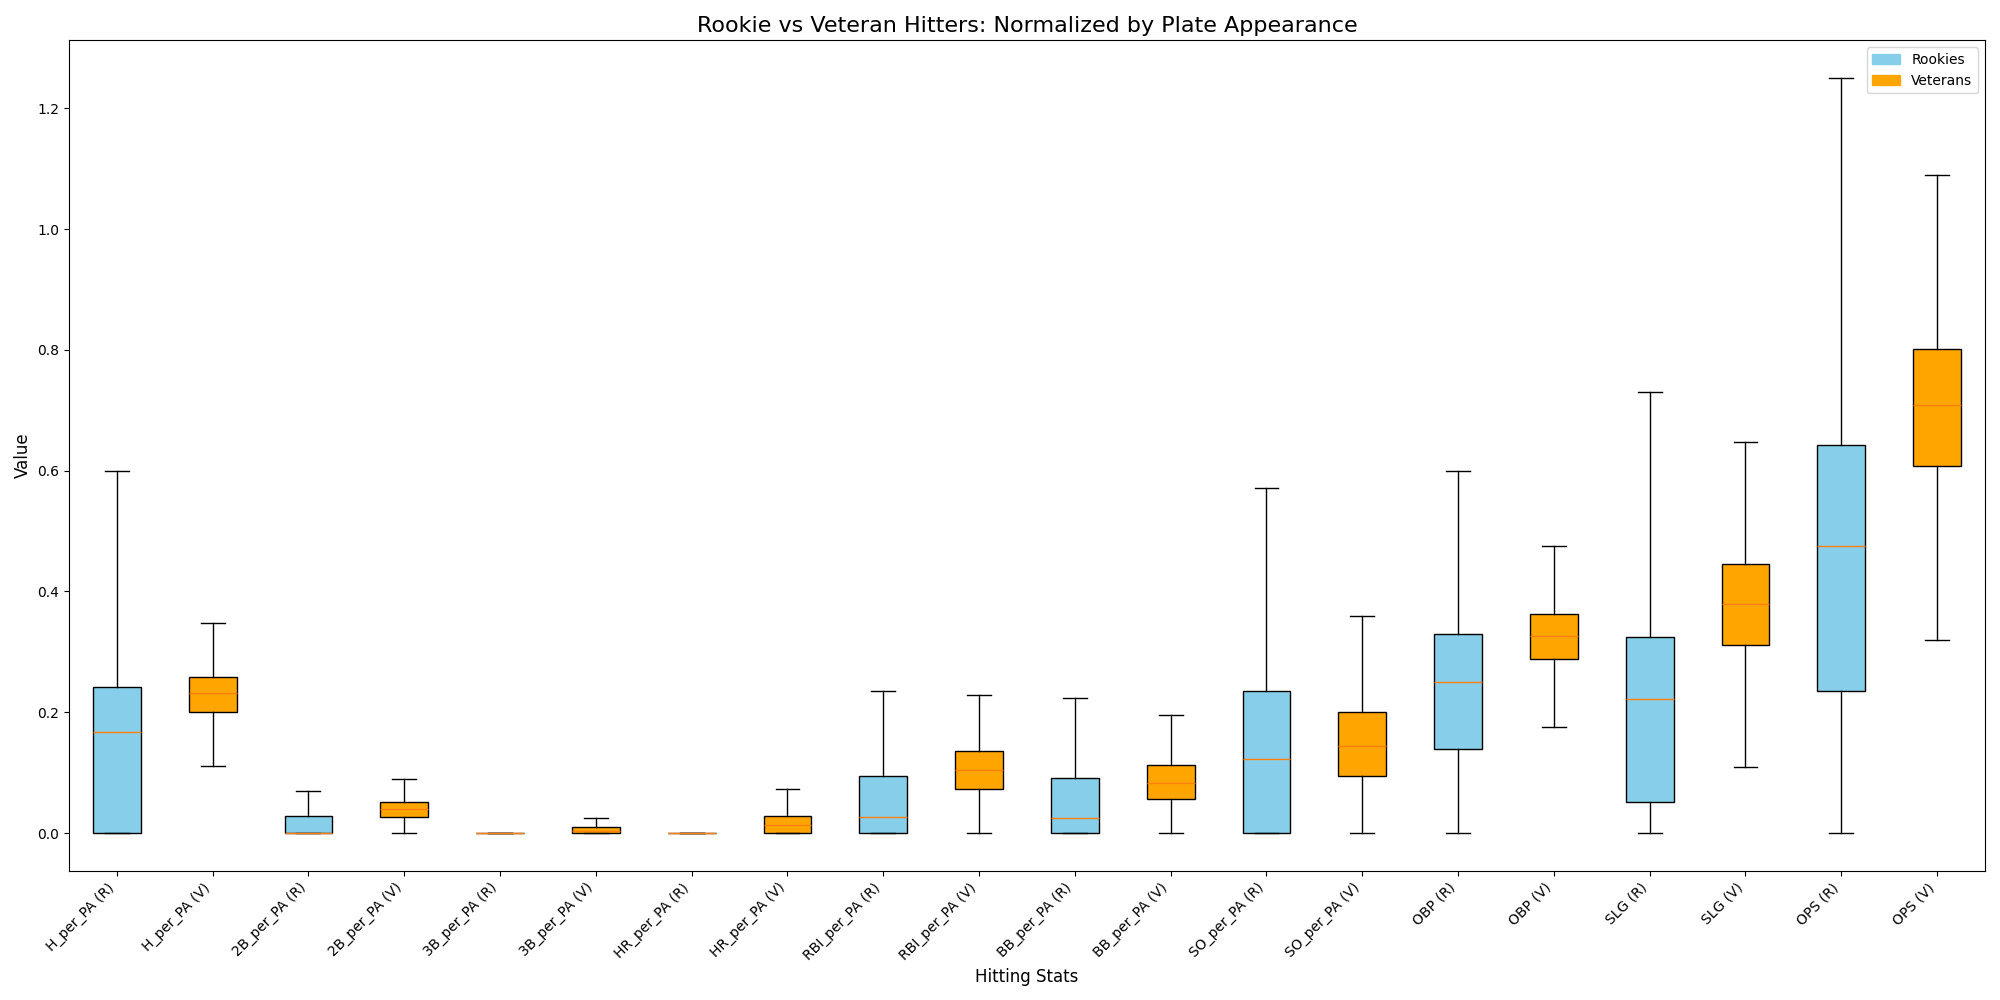
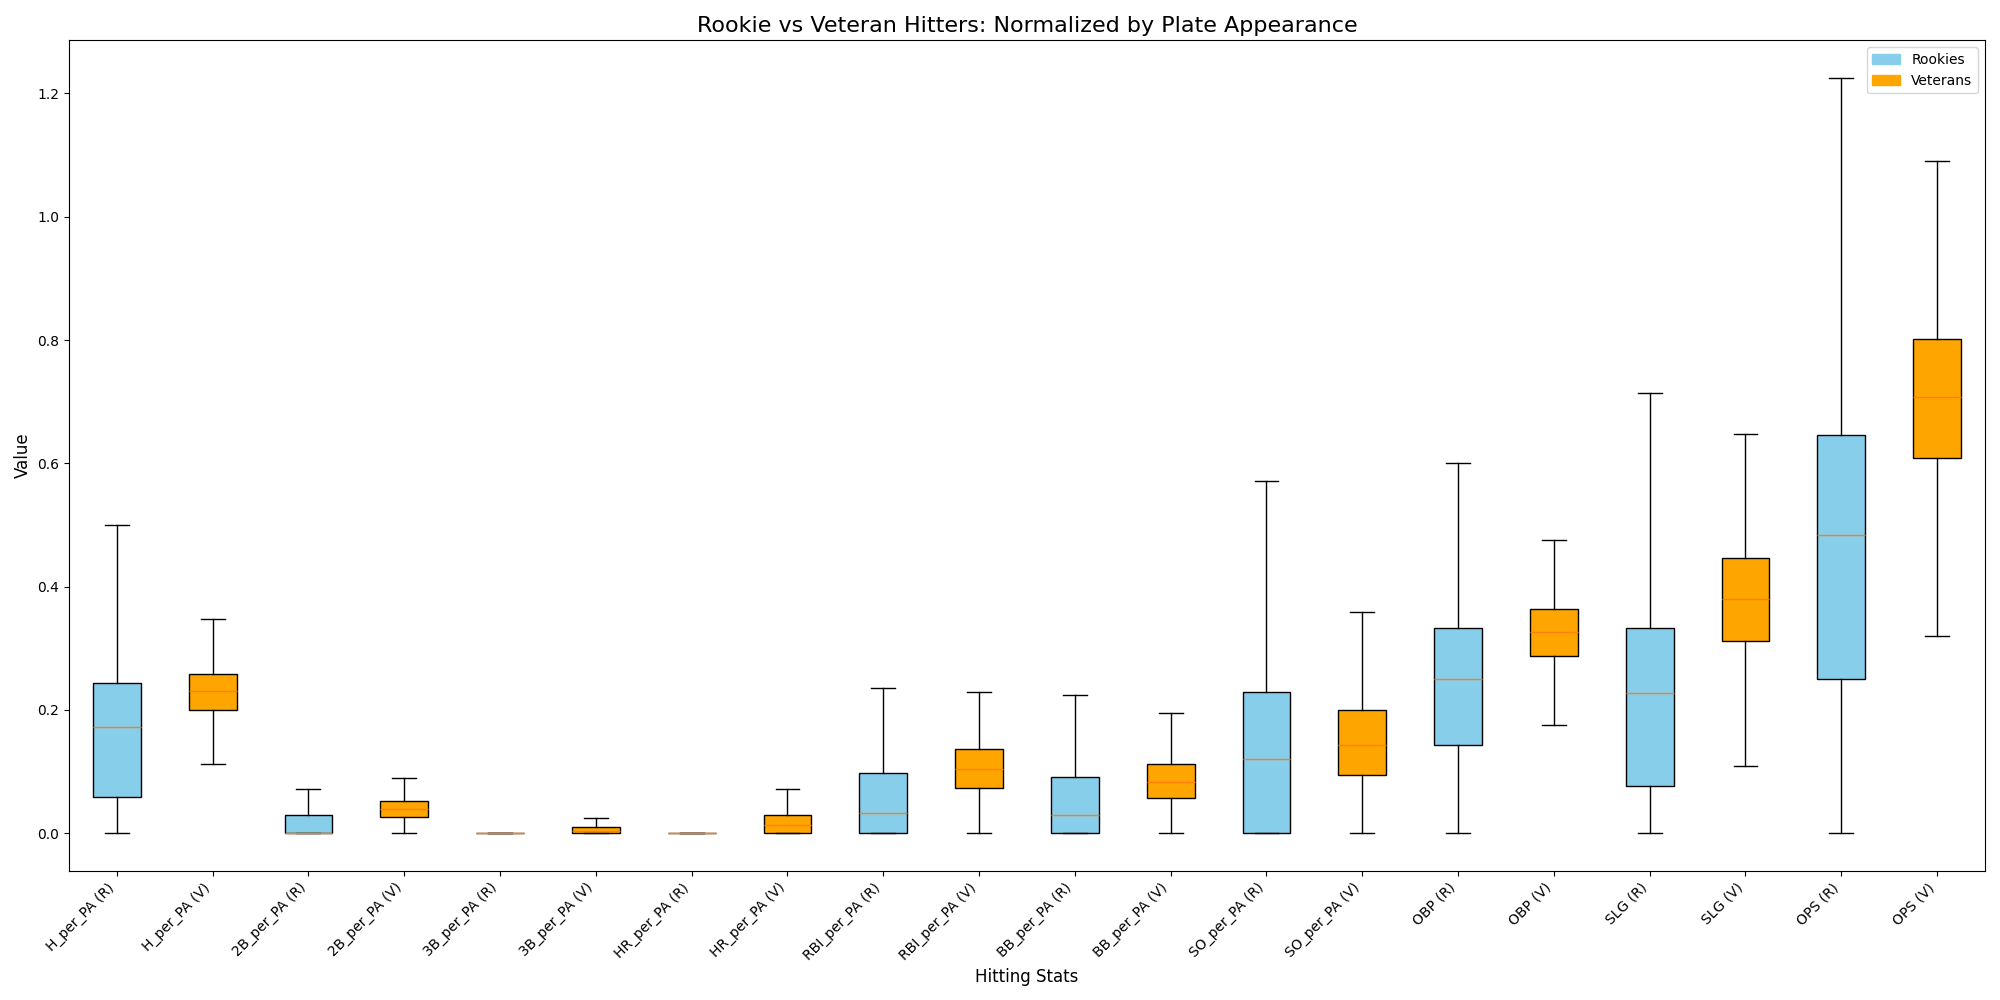
Corrected values

diff --git a/main.py b/main.py
@@ -53,7 +53,7 @@ pitchers_df.dropna(subset=['ERA'], inplace=True)
 rookie_pitchers_df = pitchers_df[(pitchers_df['Total IP'] <= 50)].copy()
 
 # no more than 150 at bats for hitters
-rookie_hitters_df = hitters_df[(hitters_df['Total AB'] <= 130)].copy()
+rookie_hitters_df = hitters_df[(hitters_df['Total AB'] <= 150)].copy()
 
 
 ## vet criteria via baseball-almanac.com
